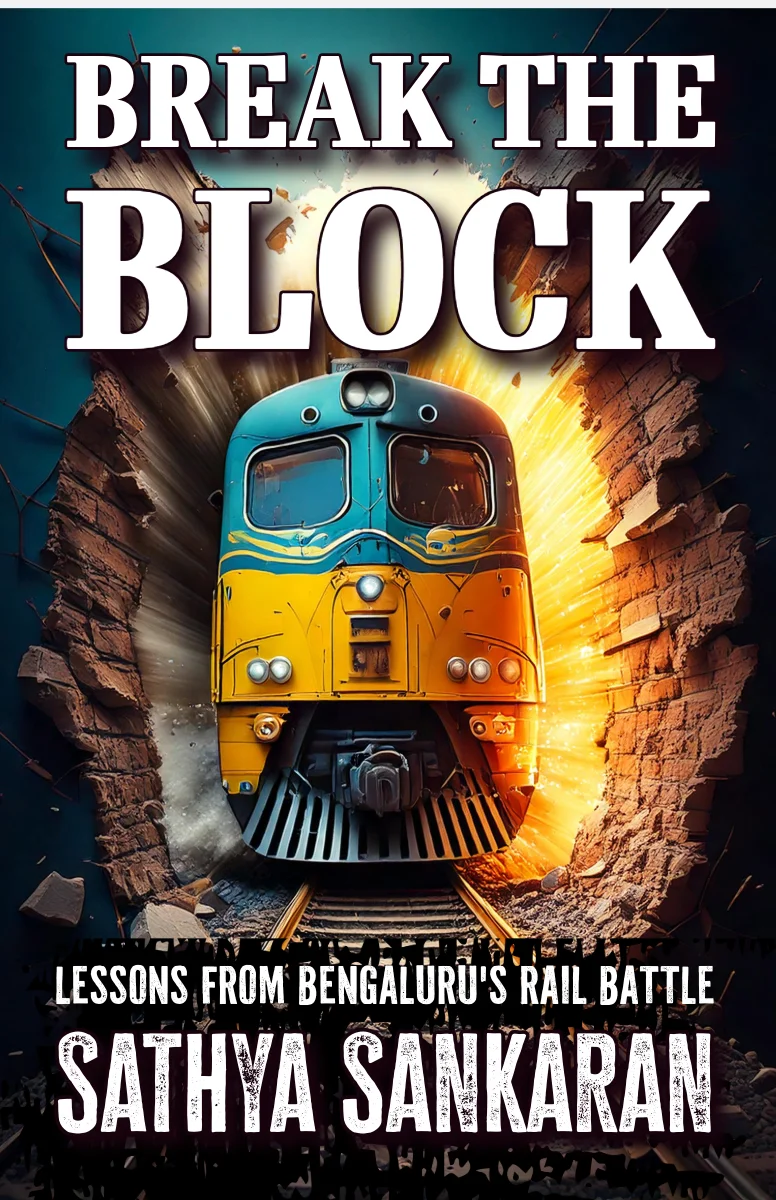
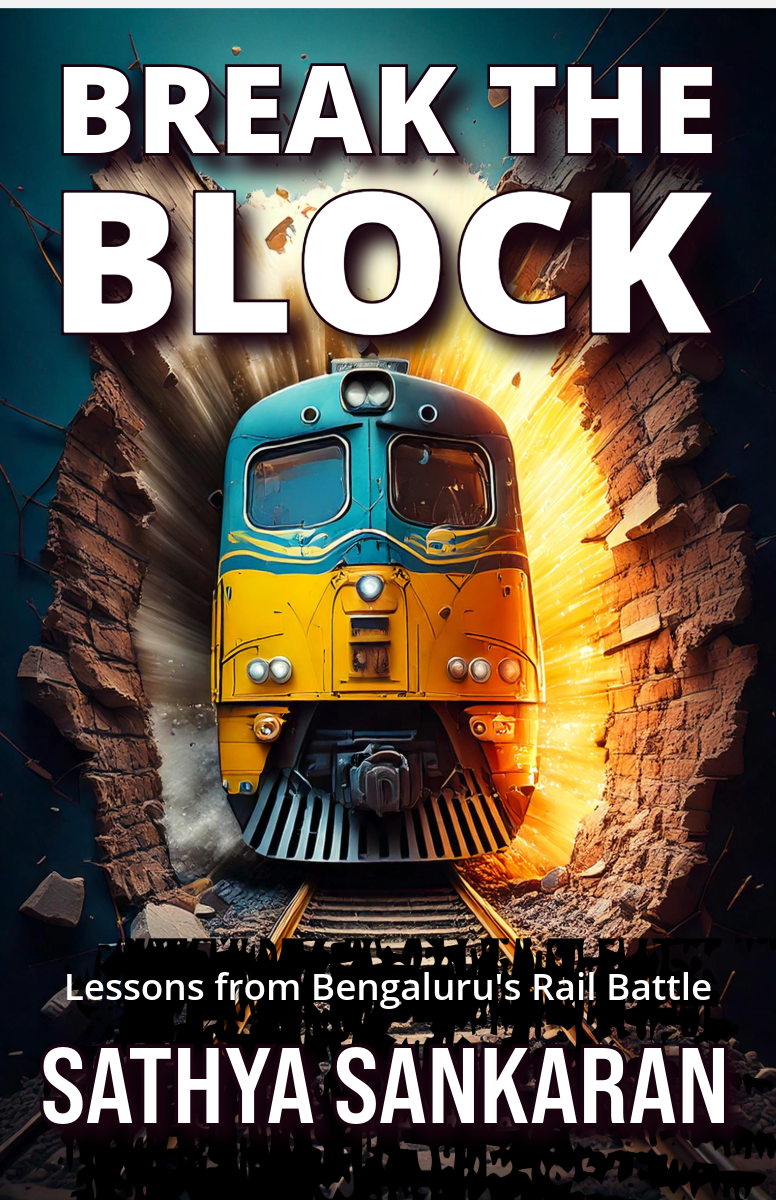
footer & book cover replaced

diff --git a/index.html b/index.html
@@ -1188,6 +1188,24 @@
             font-family: 'Space Mono', monospace;
             font-size: 0.9rem;
             opacity: 0.7;
+            display: flex;
+            align-items: center;
+            justify-content: center;
+            flex-wrap: wrap;
+            gap: 1rem;
+        }
+
+        footer a {
+            transition: opacity 0.3s;
+        }
+
+        footer a:hover {
+            opacity: 1;
+        }
+
+        footer img {
+            display: inline-block;
+            vertical-align: middle;
         }
 
         /* Responsive */
@@ -1561,7 +1579,15 @@
 
     <!-- Footer -->
     <footer>
-        <p>© 2026 Sathya Sankaran | Break the Block: Lessons from Bengaluru's Rail Battle</p>
+        <p>
+            <a href="https://creativecommons.org/licenses/by-sa/4.0/" target="_blank" rel="license noopener noreferrer" style="display: inline-flex; align-items: center; gap: 0.5rem; color: inherit; text-decoration: none;">
+                <img src="https://mirrors.creativecommons.org/presskit/icons/cc.svg" alt="CC" style="height: 1.5rem; width: 1.5rem;">
+                <img src="https://mirrors.creativecommons.org/presskit/icons/by.svg" alt="BY" style="height: 1.5rem; width: 1.5rem;">
+                <img src="https://mirrors.creativecommons.org/presskit/icons/sa.svg" alt="SA" style="height: 1.5rem; width: 1.5rem;">
+                <span>All content on this site is covered under CC-BY-SA 4.0 license</span>
+            </a>
+            | Break the Block: Lessons from Bengaluru's Rail Battle
+        </p>
     </footer>
 
     <script data-cfasync="false" src="/cdn-cgi/scripts/5c5dd728/cloudflare-static/email-decode.min.js"></script><script data-cfasync="false" src="/cdn-cgi/scripts/5c5dd728/cloudflare-static/email-decode.min.js"></script><script>

diff --git a/key-takeaways.html b/key-takeaways.html
@@ -404,6 +404,28 @@
             margin-top: 4rem;
         }
 
+        footer p {
+            display: flex;
+            align-items: center;
+            justify-content: center;
+            flex-wrap: wrap;
+            gap: 1rem;
+            margin: 0;
+        }
+
+        footer a {
+            transition: opacity 0.3s;
+        }
+
+        footer a:hover {
+            opacity: 0.8;
+        }
+
+        footer img {
+            display: inline-block;
+            vertical-align: middle;
+        }
+
         /* Responsive */
         @media (max-width: 768px) {
             .top-nav {
@@ -2817,7 +2839,15 @@
     </div>
 
     <footer>
-        <p>© 2026 Sathya Sankaran | Break the Block: Lessons from Bengaluru's Rail Battle</p>
+        <p>
+            <a href="https://creativecommons.org/licenses/by-sa/4.0/" target="_blank" rel="license noopener noreferrer" style="display: inline-flex; align-items: center; gap: 0.5rem; color: inherit; text-decoration: none;">
+                <img src="https://mirrors.creativecommons.org/presskit/icons/cc.svg" alt="CC" style="height: 1.5rem; width: 1.5rem;">
+                <img src="https://mirrors.creativecommons.org/presskit/icons/by.svg" alt="BY" style="height: 1.5rem; width: 1.5rem;">
+                <img src="https://mirrors.creativecommons.org/presskit/icons/sa.svg" alt="SA" style="height: 1.5rem; width: 1.5rem;">
+                <span>All content on this site is covered under CC-BY-SA 4.0 license</span>
+            </a>
+            | Break the Block: Lessons from Bengaluru's Rail Battle
+        </p>
     </footer>
 
     <script>

diff --git a/chapter1.html b/chapter1.html
@@ -590,7 +590,16 @@
 
     <!-- Footer -->
     <footer style="background: #1a1a1a; color: #f5f5f0; padding: 2rem; text-align: center; margin-top: 4rem;">
-        <p>© 2026 Sathya Sankaran | Break the Block: Lessons from Bengaluru's Rail Battle</p>
+        <p style="display: flex; align-items: center; justify-content: center; flex-wrap: wrap; gap: 1rem; margin: 0;">
+            <a href="https://creativecommons.org/licenses/by-sa/4.0/" target="_blank" rel="license noopener noreferrer" style="display: inline-flex; align-items: center; gap: 0.5rem; color: inherit; text-decoration: none; transition: opacity 0.3s;">
+                <img src="https://mirrors.creativecommons.org/presskit/icons/cc.svg" alt="CC" style="height: 1.5rem; width: 1.5rem; display: inline-block; vertical-align: middle;">
+                <img src="https://mirrors.creativecommons.org/presskit/icons/by.svg" alt="BY" style="height: 1.5rem; width: 1.5rem; display: inline-block; vertical-align: middle;">
+                <img src="https://mirrors.creativecommons.org/presskit/icons/sa.svg" alt="SA" style="height: 1.5rem; width: 1.5rem; display: inline-block; vertical-align: middle;">
+                <span>All content on this site is covered under CC-BY-SA 4.0 license</span>
+            </a>
+            <span>|</span>
+            <span>Break the Block: Lessons from Bengaluru's Rail Battle</span>
+        </p>
     </footer>
 
     <!-- Text-to-Speech Controls -->

diff --git a/chapter2.html b/chapter2.html
@@ -612,7 +612,16 @@
 
     <!-- Footer -->
     <footer style="background: #1a1a1a; color: #f5f5f0; padding: 2rem; text-align: center; margin-top: 4rem;">
-        <p>© 2026 Sathya Sankaran | Break the Block: Lessons from Bengaluru's Rail Battle</p>
+        <p style="display: flex; align-items: center; justify-content: center; flex-wrap: wrap; gap: 1rem; margin: 0;">
+            <a href="https://creativecommons.org/licenses/by-sa/4.0/" target="_blank" rel="license noopener noreferrer" style="display: inline-flex; align-items: center; gap: 0.5rem; color: inherit; text-decoration: none; transition: opacity 0.3s;">
+                <img src="https://mirrors.creativecommons.org/presskit/icons/cc.svg" alt="CC" style="height: 1.5rem; width: 1.5rem; display: inline-block; vertical-align: middle;">
+                <img src="https://mirrors.creativecommons.org/presskit/icons/by.svg" alt="BY" style="height: 1.5rem; width: 1.5rem; display: inline-block; vertical-align: middle;">
+                <img src="https://mirrors.creativecommons.org/presskit/icons/sa.svg" alt="SA" style="height: 1.5rem; width: 1.5rem; display: inline-block; vertical-align: middle;">
+                <span>All content on this site is covered under CC-BY-SA 4.0 license</span>
+            </a>
+            <span>|</span>
+            <span>Break the Block: Lessons from Bengaluru's Rail Battle</span>
+        </p>
     </footer>
 
     <!-- Text-to-Speech Controls -->

diff --git a/introduction.html b/introduction.html
@@ -674,7 +674,16 @@
 
     <!-- Footer -->
     <footer style="background: #1a1a1a; color: #f5f5f0; padding: 2rem; text-align: center; margin-top: 4rem;">
-        <p>© 2026 Sathya Sankaran | Break the Block: Lessons from Bengaluru's Rail Battle</p>
+        <p style="display: flex; align-items: center; justify-content: center; flex-wrap: wrap; gap: 1rem; margin: 0;">
+            <a href="https://creativecommons.org/licenses/by-sa/4.0/" target="_blank" rel="license noopener noreferrer" style="display: inline-flex; align-items: center; gap: 0.5rem; color: inherit; text-decoration: none; transition: opacity 0.3s;">
+                <img src="https://mirrors.creativecommons.org/presskit/icons/cc.svg" alt="CC" style="height: 1.5rem; width: 1.5rem; display: inline-block; vertical-align: middle;">
+                <img src="https://mirrors.creativecommons.org/presskit/icons/by.svg" alt="BY" style="height: 1.5rem; width: 1.5rem; display: inline-block; vertical-align: middle;">
+                <img src="https://mirrors.creativecommons.org/presskit/icons/sa.svg" alt="SA" style="height: 1.5rem; width: 1.5rem; display: inline-block; vertical-align: middle;">
+                <span>All content on this site is covered under CC-BY-SA 4.0 license</span>
+            </a>
+            <span>|</span>
+            <span>Break the Block: Lessons from Bengaluru's Rail Battle</span>
+        </p>
     </footer>
 
     <!-- Text-to-Speech Controls -->
